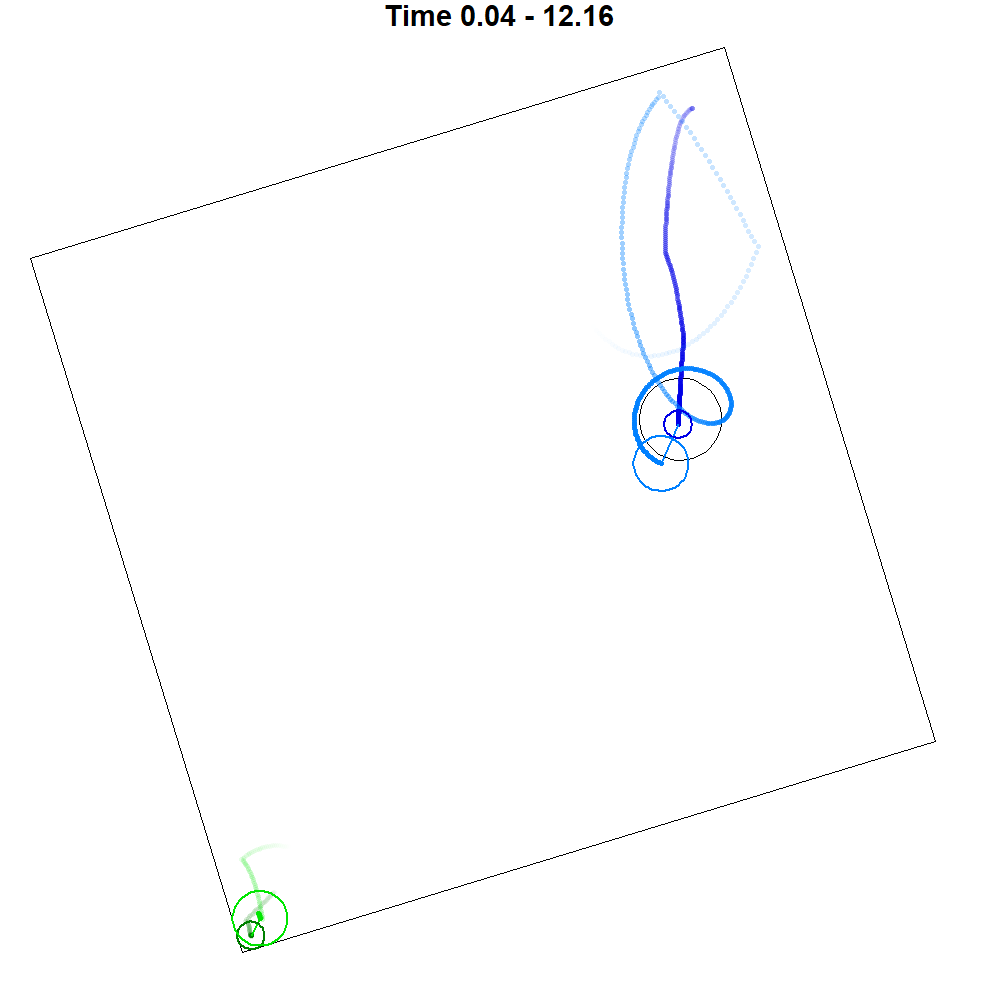
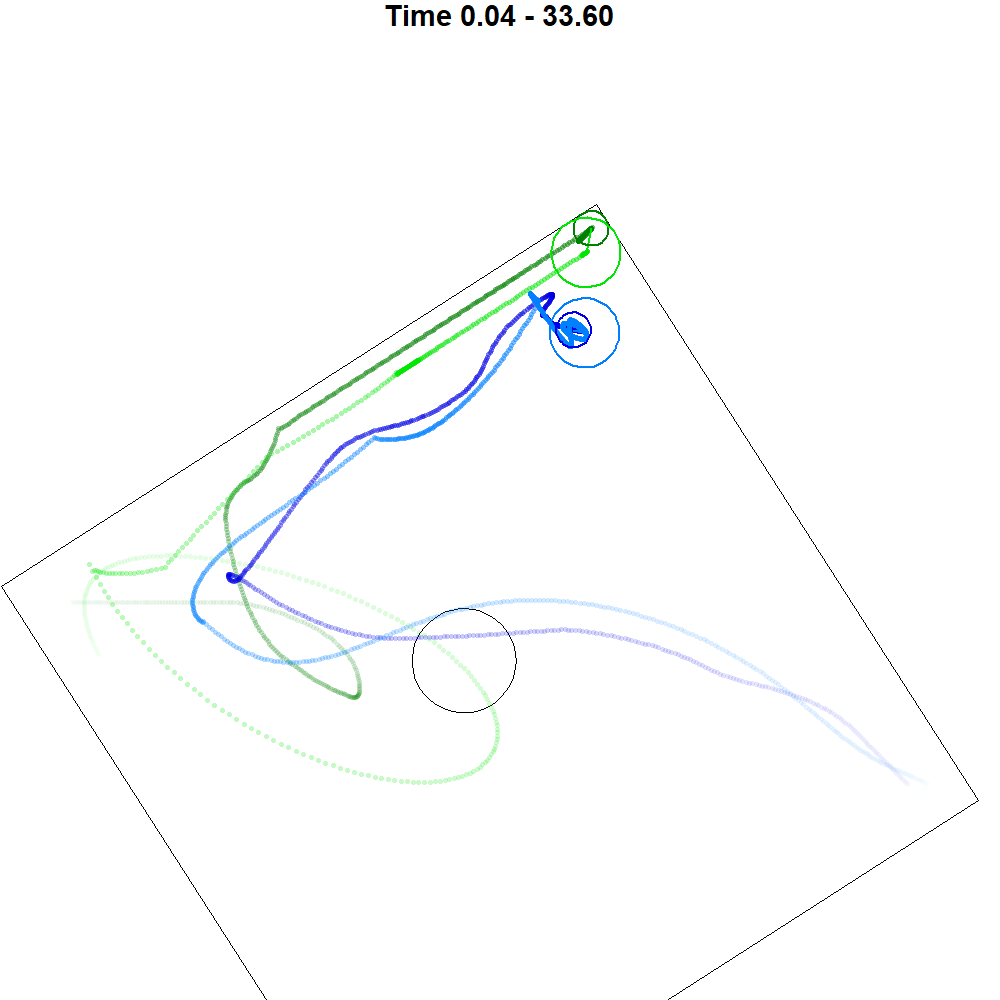
sampling

diff --git a/guard/game.py b/guard/game.py
@@ -97,7 +97,7 @@ class Game(arcade.Window):
             self.frame_counter = 0
             self.paused = True
             self.reset_log_file()
-        if symbol == arcade.key.T:
+        if symbol == arcade.key.L:
             self.generator.reset_custom()
             self.frame_counter = 0
             self.paused = True
@@ -172,8 +172,8 @@ class Game(arcade.Window):
         action_values0 = torch.einsum('ij,kj->ik',velocity_grad0,active_action_tensor)
         action_values1 = torch.einsum('ij,kj->ik',velocity_grad1,active_action_tensor)
         generator.agent0.action = torch.argmax(action_values0, dim=1) + 1
-        # generator.agent1.action = torch.argmax(action_values1, dim=1) + 1
-        self.agentCircles[1].agent.action[self.index] = self.get_user_action()
+        generator.agent1.action = torch.argmax(action_values1, dim=1) + 1
+        # self.agentCircles[1].agent.action[self.index] = self.get_user_action()
         row = [
             self.frame_counter+1,self.simulation.time,self.life0,self.life1,
             self.simulation.charge[self.index,0].item(),

diff --git a/guard/generator.py b/guard/generator.py
@@ -99,6 +99,7 @@ class DataGenerator:
         self.blade1.velocity = get_random_vectors(n, 45)
         self.world.complete = torch.zeros(n, 1).bool()
         self.world.charge = self.charge_target * torch.rand(n,1)
+        self.world.charge = torch.where(torch.rand(n,1)<0.5,self.charge_target,self.world.charge)
         self.update()
 
     def reset_custom(self):
@@ -134,11 +135,10 @@ class DataGenerator:
         victory = self.life1 == 0
         defeat = full_charge | (self.life0 == 0)
         self.world.complete = victory | defeat
-        ongoing = ~self.world.complete
         charge_share = self.world.charge / self.charge_target
         ringReward = ring_dist1 - 0.5*ring_dist0 - 50 * charge_share - 50 * charging
-        completeReward = 300 * victory - 300 * defeat
-        self.reward = torch.where(ongoing, ringReward, completeReward)
+        completeReward = 500 * victory - (300 + ring_dist0) * defeat
+        self.reward = torch.where(self.world.complete, completeReward, ringReward)
 
     def act(self, horizon: int):
         if horizon==0:

diff --git a/guard/train.py b/guard/train.py
@@ -56,7 +56,7 @@ quality_history = []
 cuda_generator = torch.Generator(device='cuda')
 data_generator = DataGenerator(old_value_model, sim_count, step_count, time_step)
 last_log_time = time.perf_counter()
-quality_threshold = 0.98
+quality_threshold = 0.97
 quality = 0
 
 print('Training...')